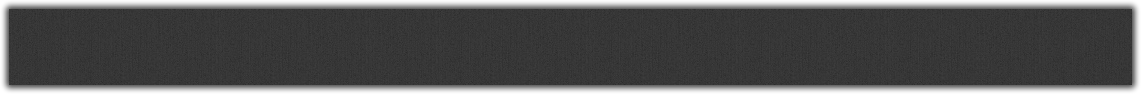
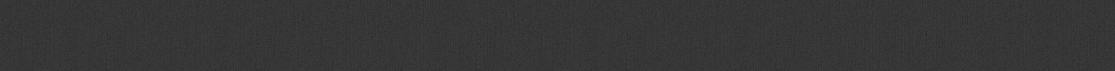
Add styles to header

Changed region(s): [[0.0, 0.0, 1.0, 1.0]]

diff --git a/src/sass/sections/_header.scss b/src/sass/sections/_header.scss
@@ -1,0 +1,43 @@
+.top-header {
+    display: flex;
+    align-items: flex-end;
+    min-height: 76px;
+    padding-bottom: 17px;
+    box-shadow: 0 0 7px 3px rgba(0, 0, 0, 0.75);
+    background: url("../../img/header.png") no-repeat center center;
+    background-size: cover;
+    -o-background-size: cover;
+    -moz-background-size: cover;
+    -webkit-background-size: cover;
+
+    .container-header {
+        max-width: 85vw;
+        padding: 0;
+
+        .logo {
+            max-width: 140px;
+            max-height: 20px;
+        }
+
+        .timer {
+            @include text($main-font, 12px, 400, $main-color);
+
+            opacity: 0.75;
+        }
+    }
+}
+
+/* Media queries */
+@media(max-width: 767px) {
+    .top-header {
+        padding-top: 10%;
+
+        .container-header {
+            text-align: center;
+
+            .logo {
+                margin-bottom: 5px;
+            }
+        }
+    }
+}

diff --git a/src/index.html b/src/index.html
@@ -17,15 +17,15 @@
     <!-- Header -->
     <header>
         <section class="top-header">
-            <div class="container">
+            <div class="container container-header">
                 <div class="row">
-                    <div class="col-12 col-md-11">
+                    <div class="col-12 col-md-10">
                         <div class="box-logo">
                             <img src="./img/logo.png" alt="Logo" class="logo">
                         </div>
                     </div>
-                    <div class="col-12 col-md-1">
-                        <span id="time">Time</span>
+                    <div class="col-12 col-md-2">
+                        <span id="time" class="timer">Time</span>
                     </div>
                 </div>
             </div>
